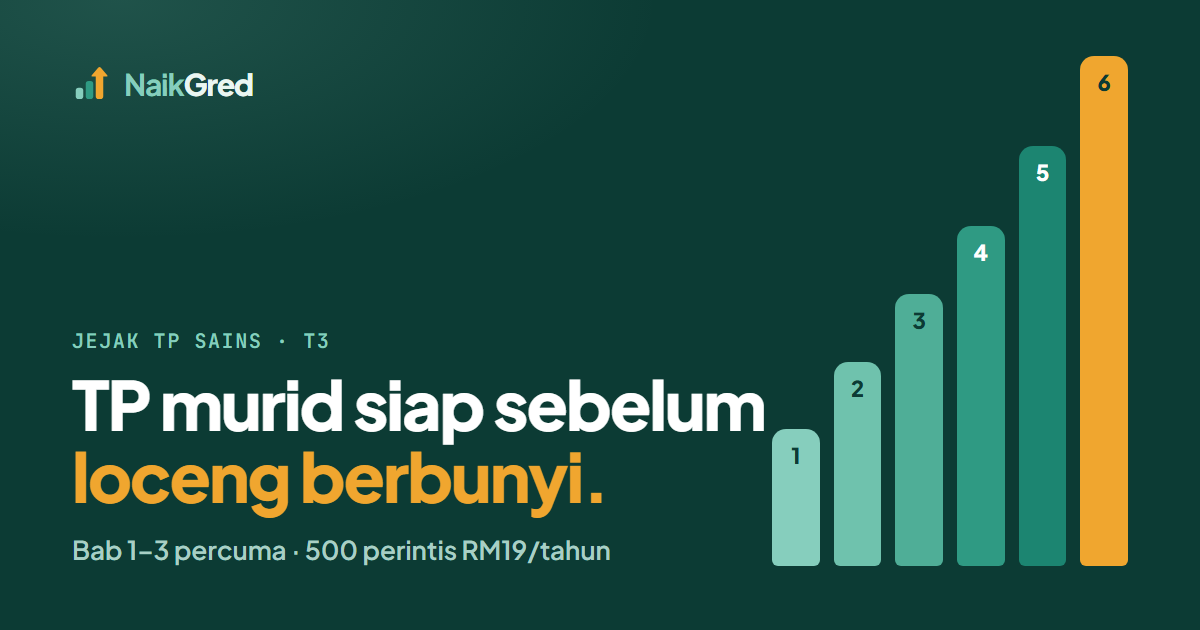
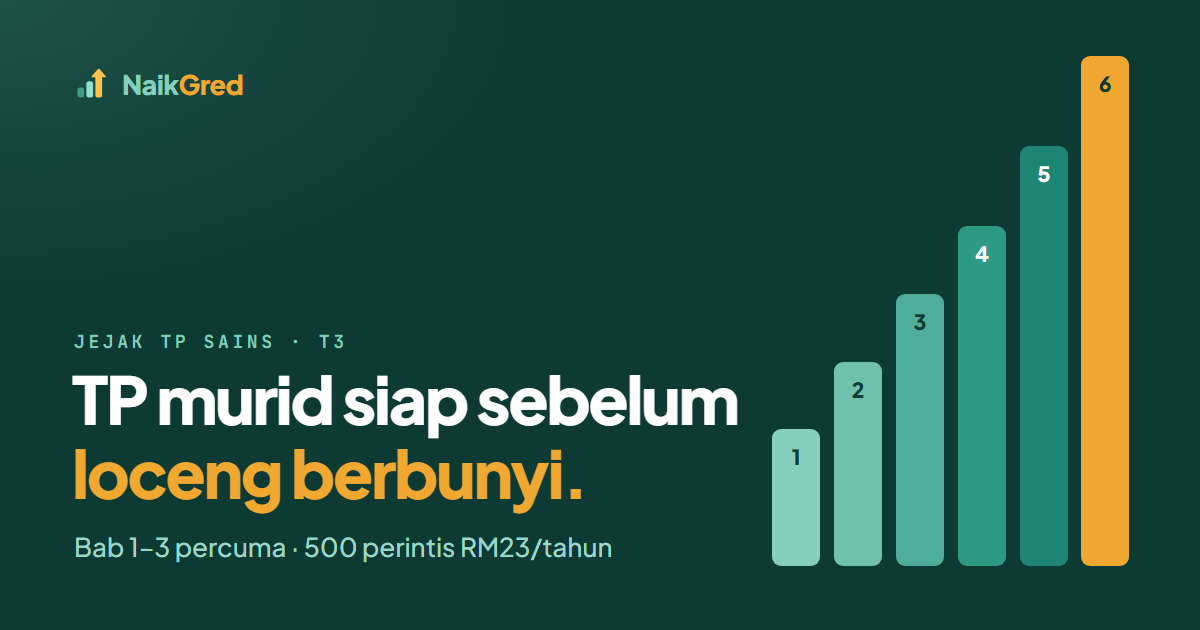
Harga Jejak TP Sains kini RM23 setahun untuk semua; gambar kongsi dikemas kini

diff --git a/jejak-tp/index.html b/jejak-tp/index.html
@@ -4,11 +4,11 @@
 <meta charset="utf-8">
 <meta name="viewport" content="width=device-width, initial-scale=1, viewport-fit=cover">
 <title>Jejak TP Sains · NaikGred</title>
-<meta name="description" content="Murid main 15 minit, TP1 hingga TP6 setiap murid terus direkod ikut DSKP Sains Tingkatan 3. Bab 1–3 percuma. Daftar jadi cikgu perintis dan kunci harga RM19 setahun.">
+<meta name="description" content="Murid main 15 minit, TP1 hingga TP6 setiap murid terus direkod ikut DSKP Sains Tingkatan 3. Bab 1–3 percuma. Daftar jadi cikgu perintis dan kunci harga RM23 setahun.">
 <meta property="og:type" content="website">
 <meta property="og:title" content="Jejak TP Sains: TP murid siap sebelum loceng berbunyi">
-<meta property="og:description" content="Murid main, TP1–TP6 terus direkod ikut DSKP Sains T3. Bab 1–3 percuma. 500 cikgu pertama dapat harga RM19 setahun.">
-<meta property="og:image" content="https://belajarkilat.github.io/naikgred/jejak-tp/og.png">
+<meta property="og:description" content="Murid main, TP1–TP6 terus direkod ikut DSKP Sains T3. Bab 1–3 percuma. 500 cikgu pertama dapat harga RM23 setahun.">
+<meta property="og:image" content="https://belajarkilat.github.io/naikgred/jejak-tp/og.png?v=23">
 <meta property="og:image:width" content="1200">
 <meta property="og:image:height" content="630">
 <meta name="twitter:card" content="summary_large_image">
@@ -308,7 +308,7 @@ footer .jenama{color:var(--ink)} footer .wordmark{color:var(--ink)} footer .word
       <h1>TP murid siap sebelum <span class="kapur">loceng berbunyi.</span></h1>
       <p class="lede">Murid main 15 minit, dan Jejak TP Sains terus rekod <b>TP1 hingga TP6 setiap murid</b> ikut Standard Prestasi DSKP. Cikgu cuma semak, lepas tu eksport.</p>
       <div class="cta-row">
-        <a class="btn btn-star" href="#perintis">Kunci harga RM19</a>
+        <a class="btn btn-star" href="#perintis">Kunci harga RM23</a>
         <a class="btn btn-ghost" href="https://belajarkilat.github.io/jejak-tp-sains/?demo=cikgu" data-ikut="demo-cikgu">Buka kelas demo</a>
       </div>
       <div class="fakta-hero">
@@ -424,7 +424,7 @@ footer .jenama{color:var(--ink)} footer .wordmark{color:var(--ink)} footer .word
     <div class="s-kepala">
       <div class="eyebrow">Harga</div>
       <h2>Mula percuma. Bayar bila cikgu yakin.</h2>
-      <p>Hari ni tak perlu bayar apa-apa. Caj mula awal sesi 2027, dan cikgu perintis kekal RM19 setahun.</p>
+      <p>Hari ni tak perlu bayar apa-apa. Caj mula awal sesi 2027, dan cikgu perintis kekal RM23 setahun.</p>
     </div>
     <div class="harga">
       <div class="pakej">
@@ -440,7 +440,7 @@ footer .jenama{color:var(--ink)} footer .wordmark{color:var(--ink)} footer .word
       <div class="pakej utama">
         <span class="lencana-atas">500 cikgu pertama</span>
         <h3>Penuh · Sains T3</h3>
-        <div class="rm">RM19 <s>RM39</s> <small>setahun</small></div>
+        <div class="rm">RM23 <small>setahun</small></div>
         <ul>
           <li><svg aria-hidden="true"><use href="#tanda"/></svg>Kesemua 10 bab Tingkatan 3</li>
           <li><svg aria-hidden="true"><use href="#tanda"/></svg>Kelas tanpa had</li>
@@ -448,7 +448,7 @@ footer .jenama{color:var(--ink)} footer .wordmark{color:var(--ink)} footer .word
           <li><svg aria-hidden="true"><use href="#tanda"/></svg>Ulasan PBD setiap murid, boleh disunting</li>
           <li><svg aria-hidden="true"><use href="#tanda"/></svg>Harga perintis kekal selagi cikgu melanggan</li>
         </ul>
-        <a class="btn btn-star" href="#perintis" style="margin-top:auto">Kunci RM19 sekarang</a>
+        <a class="btn btn-star" href="#perintis" style="margin-top:auto">Kunci RM23 sekarang</a>
       </div>
       <div class="pakej">
         <h3>Panitia Sains sekolah</h3>
@@ -477,8 +477,8 @@ footer .jenama{color:var(--ink)} footer .wordmark{color:var(--ink)} footer .word
     <div class="perintis">
       <div>
         <div class="eyebrow">Cikgu perintis</div>
-        <h2>500 tempat je. Harga RM19, kekal.</h2>
-        <p style="margin-top:14px">Daftar hari ni, terus guna Bab 1–3 secara percuma. Cikgu cuma bayar RM19 setahun bila caj mula pada 2027.</p>
+        <h2>500 tempat je. Harga RM23, kekal.</h2>
+        <p style="margin-top:14px">Daftar hari ni, terus guna Bab 1–3 secara percuma. Cikgu cuma bayar RM23 setahun bila caj mula pada 2027.</p>
         <div class="kaunter" aria-live="polite">
           <div class="angka"><span id="bil">–</span> <small>/ 500 tempat dah diambil</small></div>
           <div class="trek"><div class="isi" id="bil-isi"></div></div>
@@ -526,7 +526,7 @@ footer .jenama{color:var(--ink)} footer .wordmark{color:var(--ink)} footer .word
           <div class="eyebrow">Tempat cikgu dah dikunci</div>
           <div class="no-perintis" id="no-perintis">#1</div>
           <h3 id="berjaya-tajuk">Terima kasih, Cikgu.</h3>
-          <p>Harga RM19 setahun dah dikunci untuk e-mel ni. Cikgu boleh terus guna Bab 1–3 sekarang.</p>
+          <p>Harga RM23 setahun dah dikunci untuk e-mel ni. Cikgu boleh terus guna Bab 1–3 sekarang.</p>
           <div class="baris">
             <a class="btn btn-brand" href="https://belajarkilat.github.io/jejak-tp-sains/" data-ikut="mula-selepas-daftar">Buka Jejak TP Sains</a>
             <a class="btn btn-wa" id="kongsi-wa" href="#" target="_blank" rel="noopener">Kongsi dengan rakan panitia</a>
@@ -689,9 +689,9 @@ function kaunter(n){
   document.getElementById("bil").textContent=n;
   document.getElementById("bil-isi").style.width=Math.min(100,Math.max(1.5,n/HAD*100))+"%";
   const baki=Math.max(0,HAD-n);
-  document.getElementById("bil-baki").textContent=baki>0?`Tinggal ${baki} tempat lagi pada harga RM19.`:"Semua tempat perintis dah penuh.";
+  document.getElementById("bil-baki").textContent=baki>0?`Tinggal ${baki} tempat lagi pada harga RM23.`:"Semua tempat perintis dah penuh.";
 }
-rpc("ng_bil_perintis").then(kaunter).catch(()=>{document.getElementById("bil").textContent="500";document.querySelector(".angka small").textContent="tempat perintis";document.getElementById("bil-baki").textContent="Harga RM19 untuk 500 cikgu pertama.";document.getElementById("bil-isi").style.width="0";});
+rpc("ng_bil_perintis").then(kaunter).catch(()=>{document.getElementById("bil").textContent="500";document.querySelector(".angka small").textContent="tempat perintis";document.getElementById("bil-baki").textContent="Harga RM23 untuk 500 cikgu pertama.";document.getElementById("bil-isi").style.width="0";});
 
 /* ---------- borang ---------- */
 const borang=document.getElementById("borang"),ralat=document.getElementById("ralat"),hantar=document.getElementById("hantar");
@@ -715,7 +715,7 @@ borang.addEventListener("submit",async e=>{
     document.getElementById("no-perintis").textContent=r.baru?"#"+r.bil:"✓";
     document.getElementById("berjaya-tajuk").textContent=r.baru?`Terima kasih, ${nama.split(" ").slice(0,2).join(" ")}. Cikgu perintis ke-${r.bil}.`:"E-mel ni dah pun berdaftar sebagai perintis.";
     const pautan=location.origin+location.pathname+"?ref=kawan";
-    document.getElementById("kongsi-wa").href="https://wa.me/?text="+encodeURIComponent("Cikgu, saya baru daftar Jejak TP Sains. Murid main je, TP1–TP6 terus direkod ikut DSKP. Bab 1–3 percuma, dan 500 cikgu pertama dapat harga RM19 setahun. Cuba tengok: "+pautan);
+    document.getElementById("kongsi-wa").href="https://wa.me/?text="+encodeURIComponent("Cikgu, saya baru daftar Jejak TP Sains. Murid main je, TP1–TP6 terus direkod ikut DSKP. Bab 1–3 percuma, dan 500 cikgu pertama dapat harga RM23 setahun. Cuba tengok: "+pautan);
     ok.querySelector("a").focus();
   }catch(err){
     tunjukRalat("Pendaftaran tak sampai ke pelayan. Semak sambungan internet, lepas tu tekan butang sekali lagi.");
